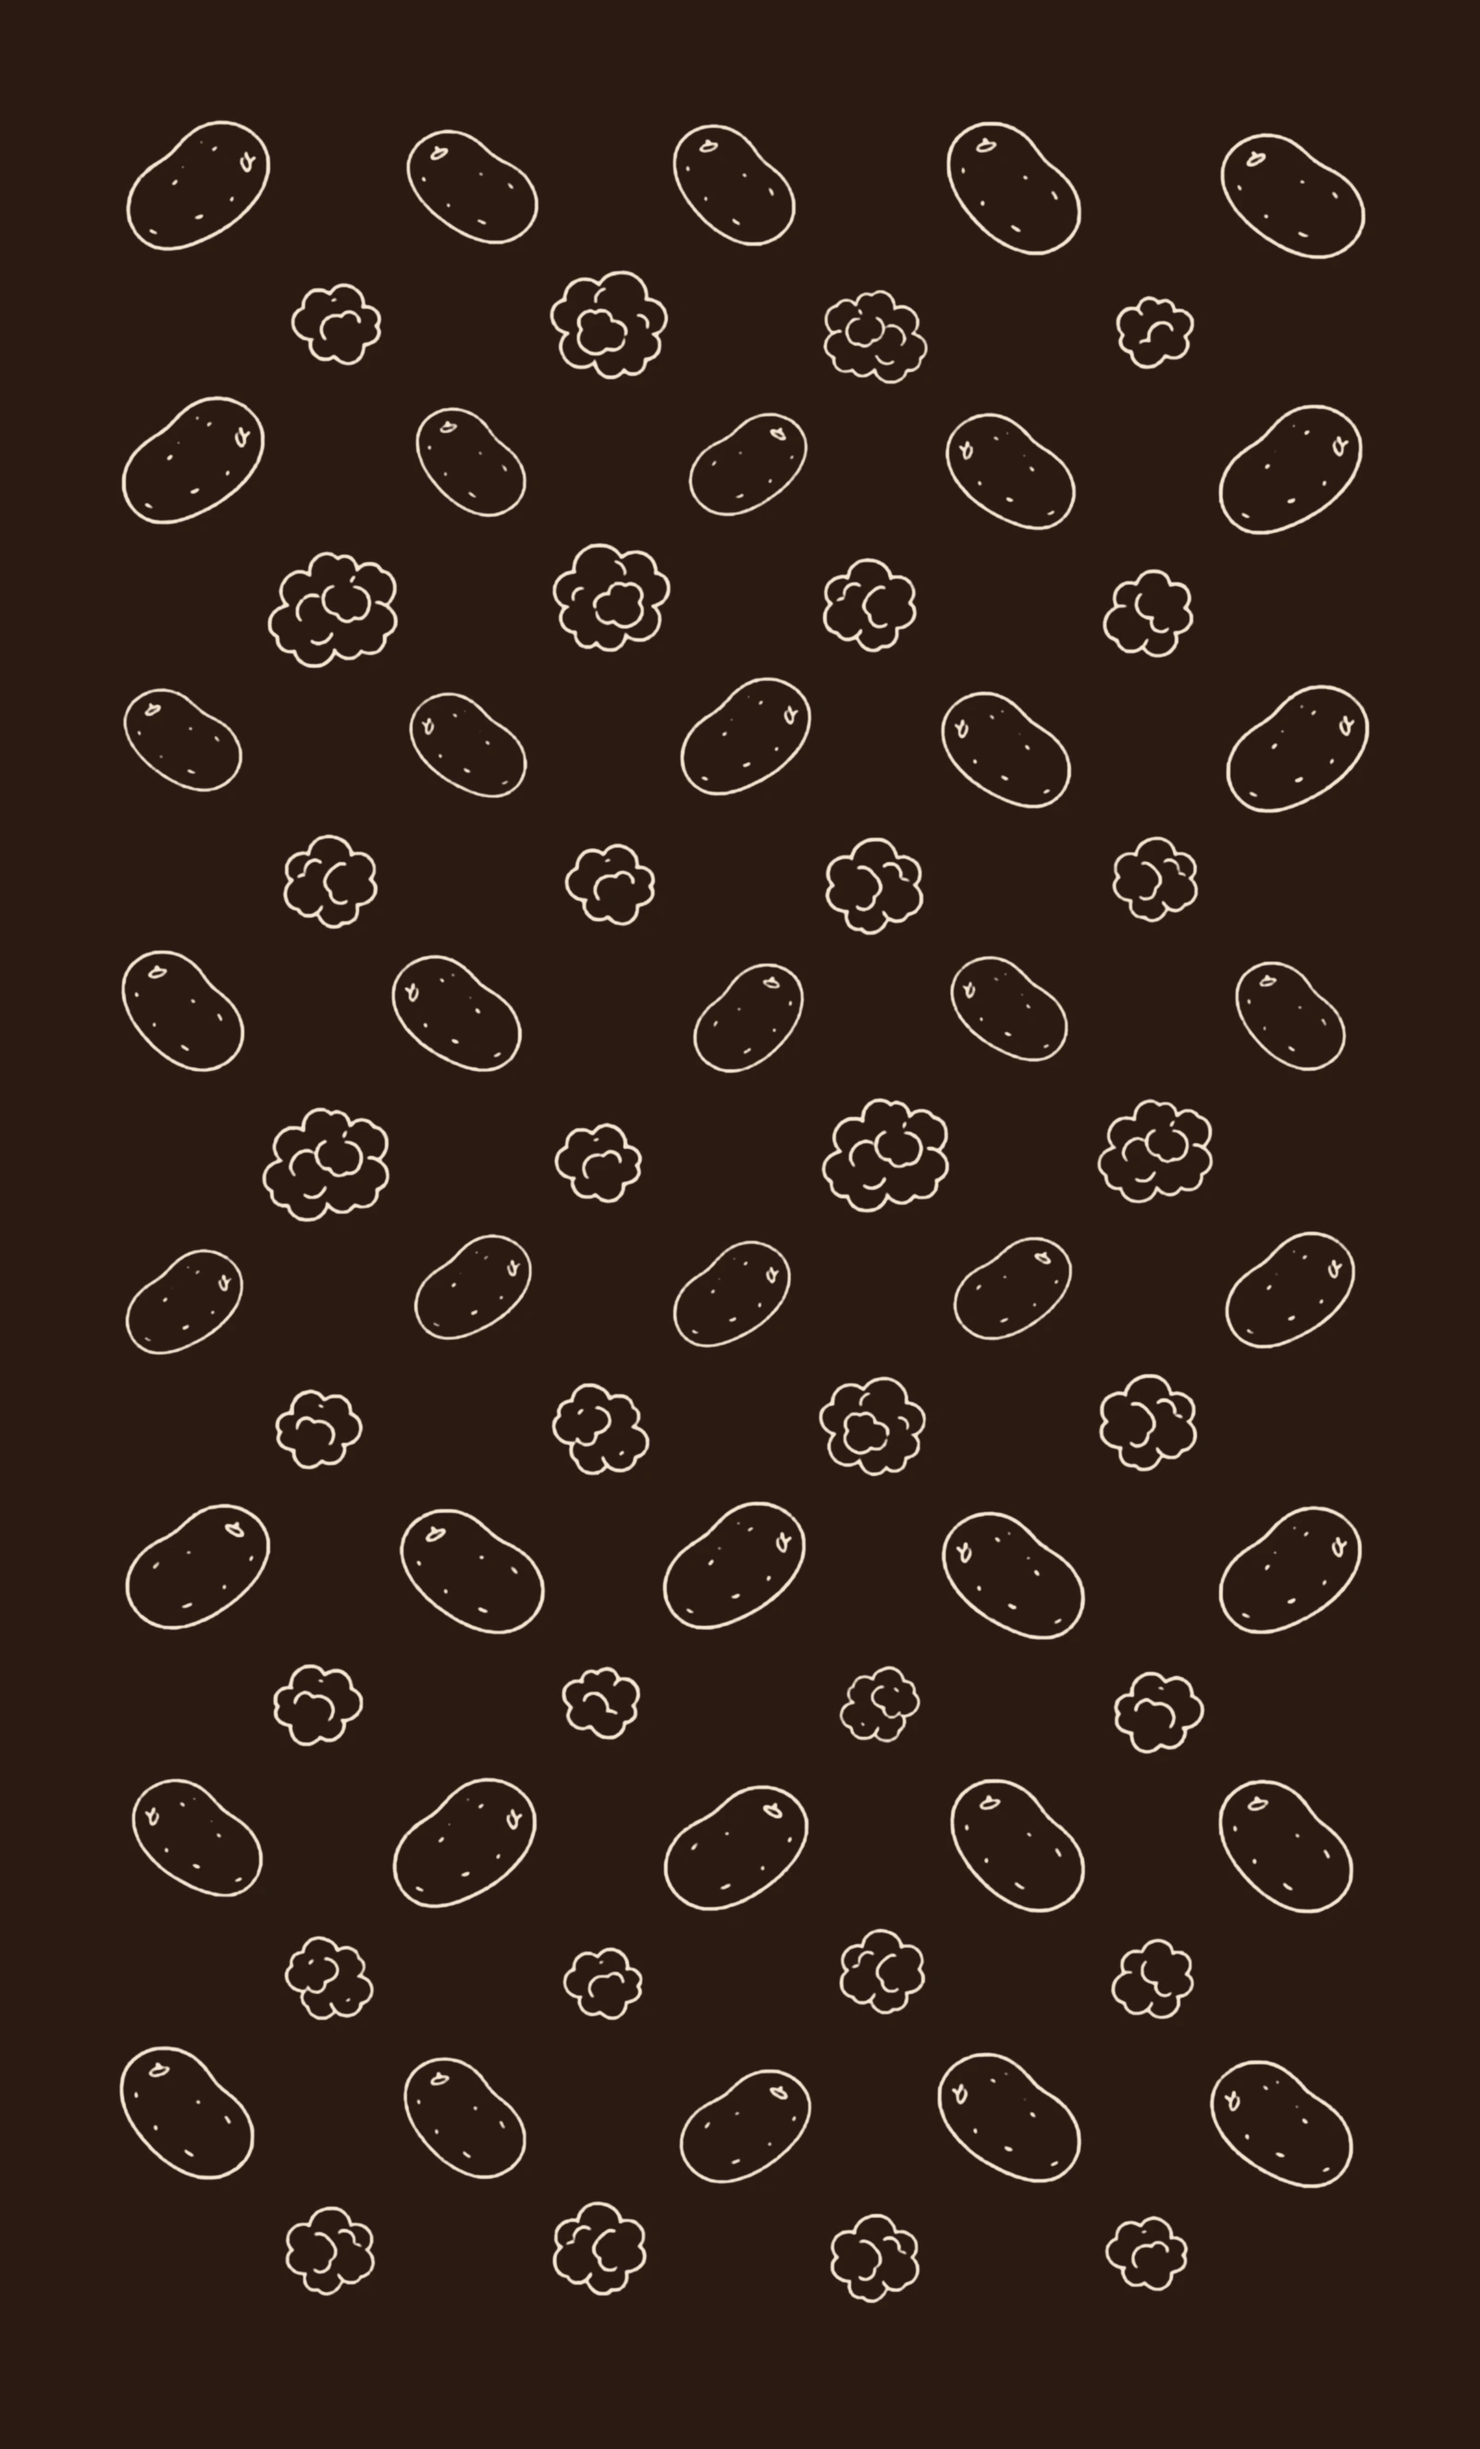
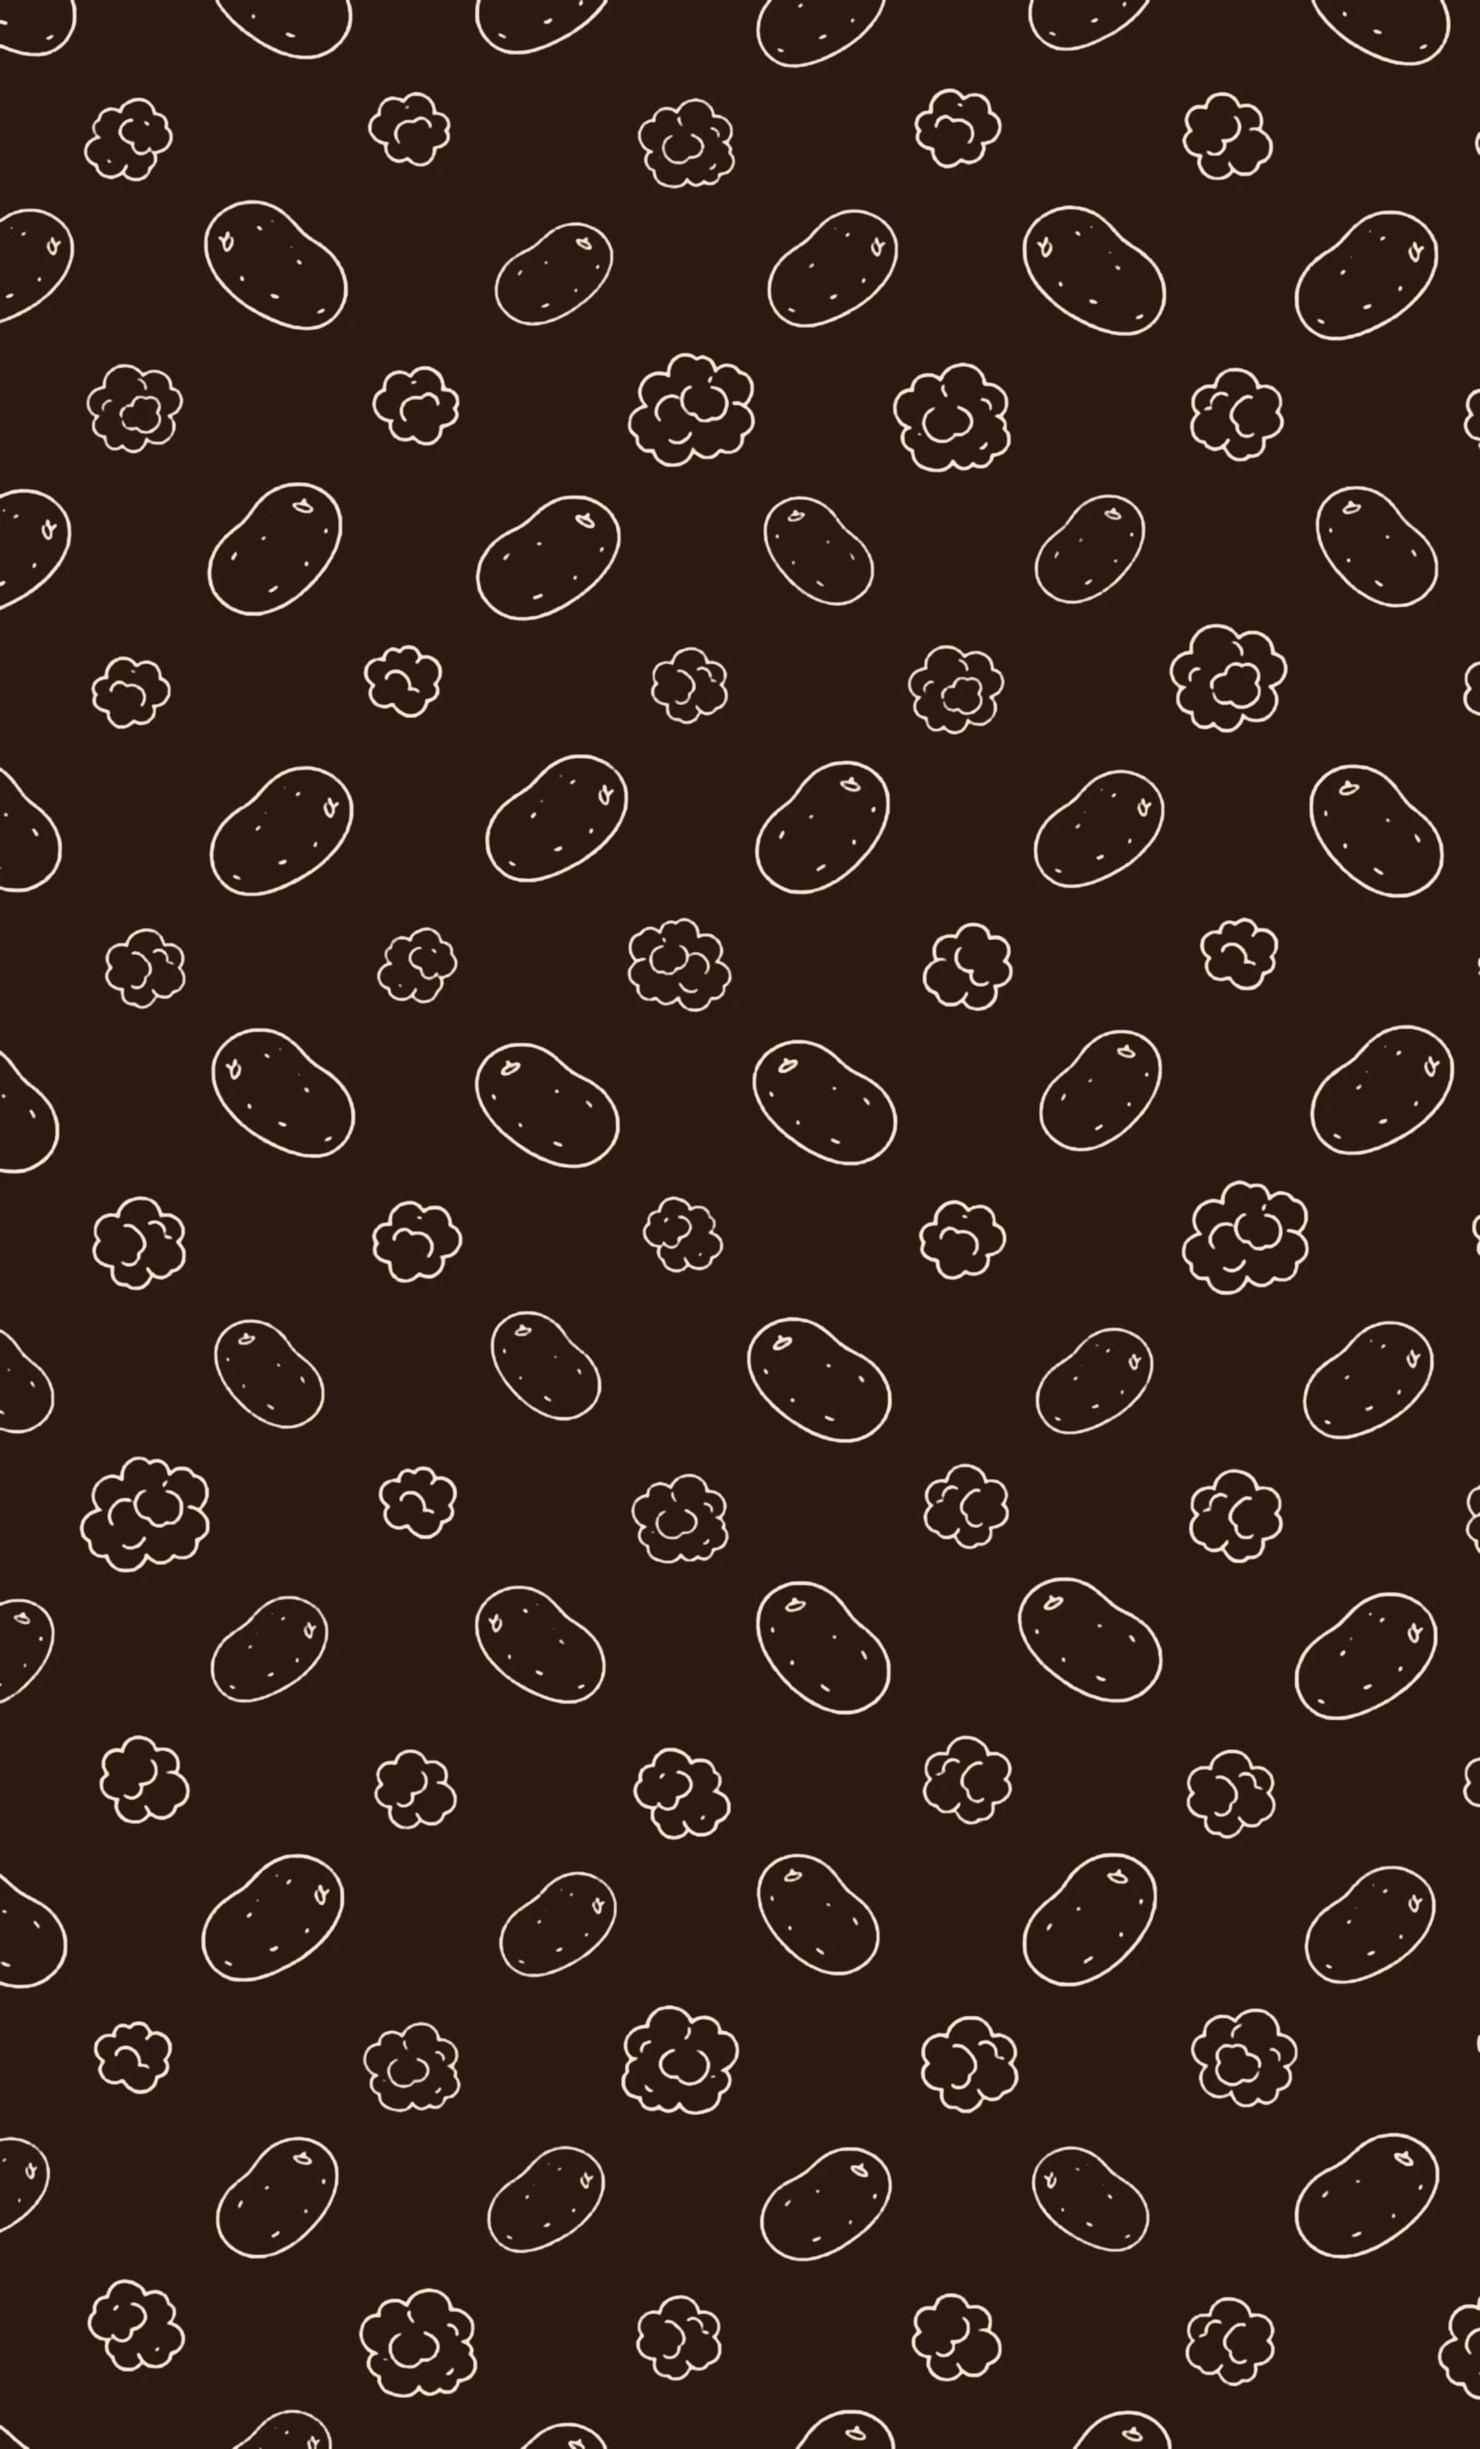
161a0a18-b21a-49e8-979f-c057896e97a0

diff --git a/worklog.md b/worklog.md
@@ -201,3 +201,22 @@ Work Log:
 Stage Summary:
 - 壁纸 v8：四边均匀铺满 + 对称装饰留白边框；布局算法从「锚定原点 + 拒绝越界」升级为「span 居中 + 收拢兜底」，从机制上杜绝单侧空带
 - 经验：图案散布类生成必须按「最大元素占位半径」收缩可布点区域并居中，而非让边界检查隐式裁掉整列
+
+---
+Task ID: 11
+Agent: Z.ai Code (主 Agent)
+Task: 壁纸 v9「无限延伸」——用户反馈左右空白仍多，要求土豆/爆米花在画布边缘被截断，做出壁纸图案无限延伸的观感。
+
+Work Log:
+- 推翻 v8 的「印章必须完整落在画布内」策略：v8 的对称留白边框在能看全画布宽度的视口（桌面/预览面板）下仍显空白较多
+- make-bg-light.mjs v8 → v9 三处改造：
+  - 取消 60px 留白与 span 居中，点阵锚定原点直接向四周铺出画布：格点索引从负数起，中心最远越界「最大印章半宽 + 抖动」（横 150 / 纵 105），负数取模的奇偶棋盘判断在 JS 下不受影响（-1/-0）
+  - 放置时不再向画布内收拢，允许印章越出画布；合成函数写入画布前逐像素裁剪（越界行列直接跳过），画布边界自然切出半只图案
+  - 碰撞检测改为只看「画布内可见部分」（可见盒判交 + 8px 间隙），避免越界印章在画布外虚占位置导致边缘排布变稀；完全画布外的印章不占位
+- 重新生成浅色版并链式重跑深色版重上色：点阵 123 点放置 122（土豆 59 / 爆米花 63），越界余量校验 98/92 ≤ 150/105；两图均 1600x2648
+- agent-browser 四组合目检：移动 390x844 与宽屏 1280x800 × 浅/深两版，四边均为被截断的半只图案，无任何空白带，深色版抗毛边效果保持
+- dev.log 全 200 零报错；lint 零错误；浏览器已关闭
+
+Stage Summary:
+- 壁纸 v9 无限延伸版上线：四边截断 + 任意视口 cover 裁切都看不出边界；布局策略从「限制在安全区内完整摆放」演进为「铺出画布 + 裁剪合成」，这是壁纸类平铺观感的正确做法
+- 经验：碰撞检测必须与「可见性」一致——按原始包围盒判定会让边缘密集区被画布外的不可见部分挤稀
